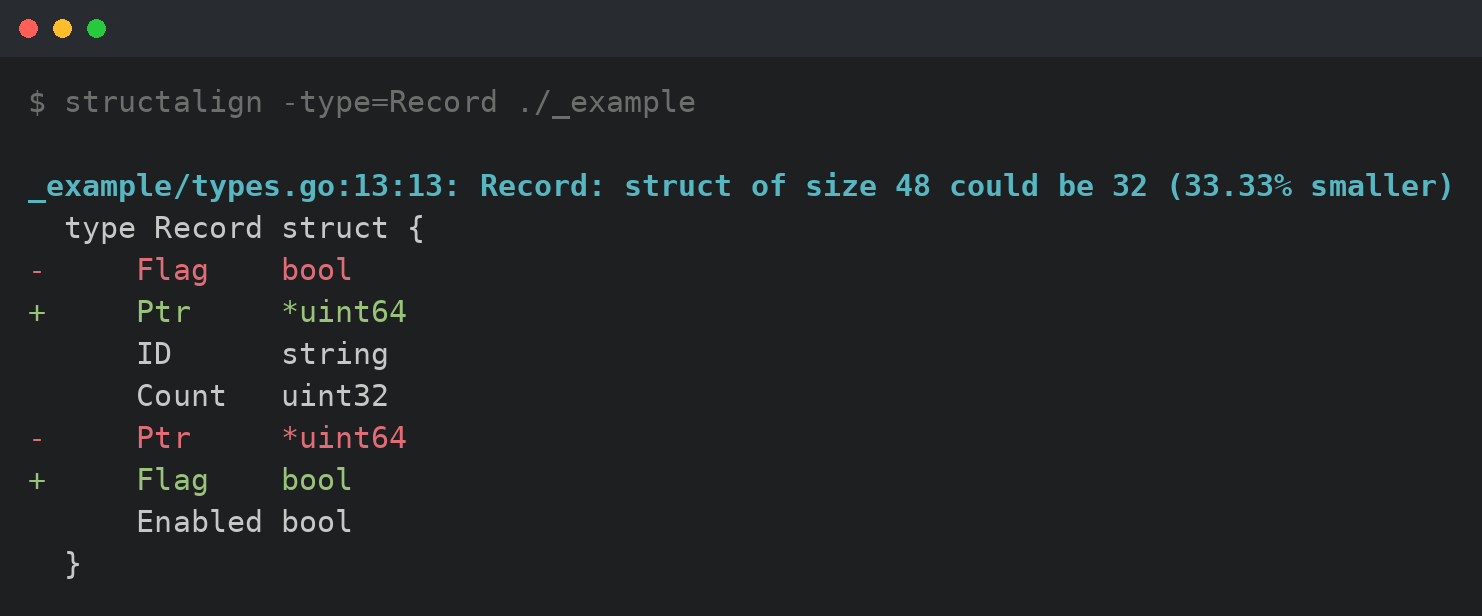
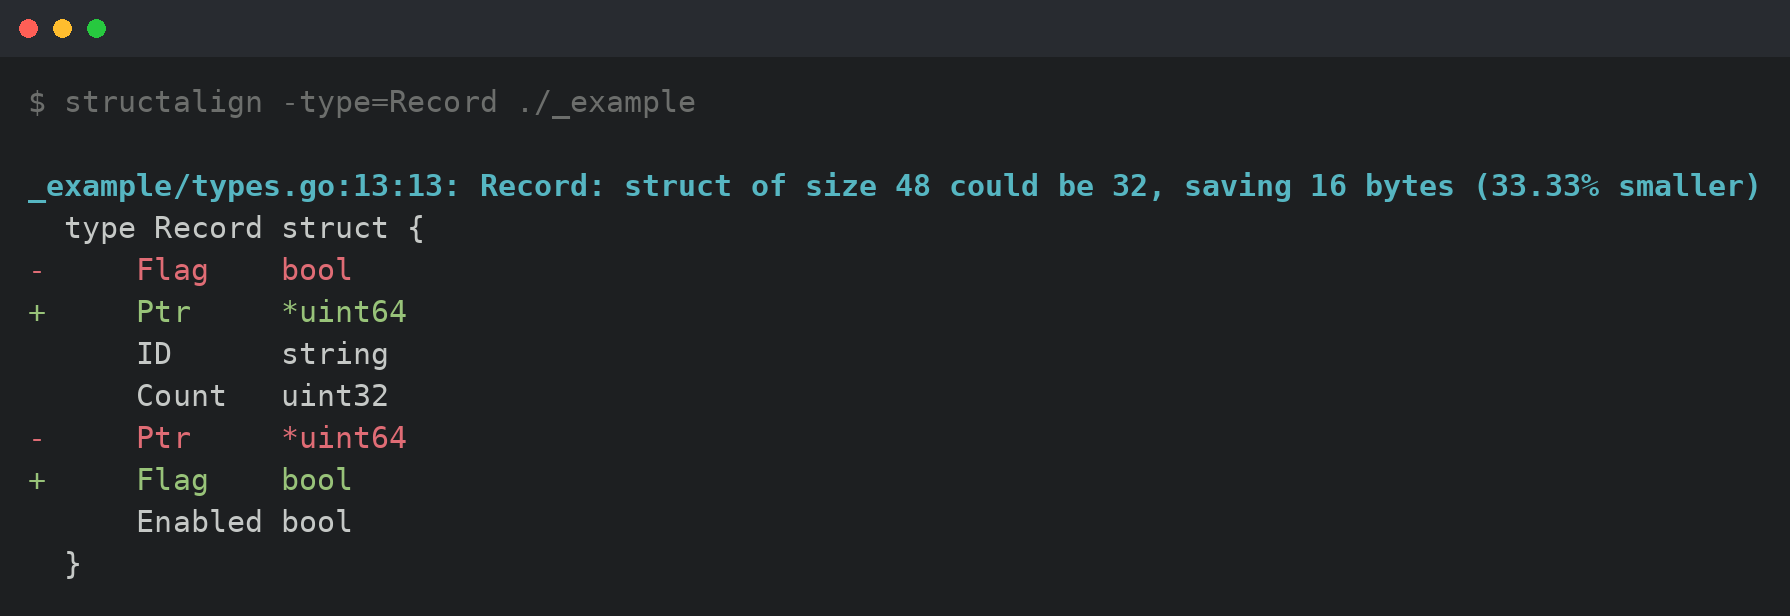
docs: refresh diff screenshot and drop redundant tag badge (#64)
* docs: regenerate diff screenshot for the v0.6.1 header

The diff header now reports absolute bytes saved ("saving 16 bytes"), so the
README screenshot was stale. Regenerated via `task screenshot` against
-type=Record; the default termenv palette renders identically.

* docs: drop redundant tag badge (duplicates Latest release)

The `tag` (github/tag) and `Latest release` (github/release) badges both render
the same version string, since every tag maps 1:1 to a GitHub release. Keep
`Latest release` (links to /releases/latest) and the distinct Release Date
badge; remove the duplicate tag badge.

* docs: move Latest release to the first badge

---------

diff --git a/README.md b/README.md
@@ -1,6 +1,6 @@
 # structalign
 
-[![tag](https://img.shields.io/github/tag/peczenyj/structalign.svg)](https://github.com/peczenyj/structalign/releases)
+[![Latest release](https://img.shields.io/github/release/peczenyj/structalign.svg)](https://github.com/peczenyj/structalign/releases/latest)
 ![Go Version](https://img.shields.io/badge/Go-%3E%3D%201.25-%23007d9c)
 [![GoDoc](https://pkg.go.dev/badge/github.com/peczenyj/structalign)](http://pkg.go.dev/github.com/peczenyj/structalign)
 [![CI](https://github.com/peczenyj/structalign/actions/workflows/ci.yml/badge.svg)](https://github.com/peczenyj/structalign/actions/workflows/ci.yml)
@@ -9,7 +9,6 @@
 [![CodeQL](https://github.com/peczenyj/structalign/actions/workflows/github-code-scanning/codeql/badge.svg)](https://github.com/peczenyj/structalign/actions/workflows/github-code-scanning/codeql)
 [![Dependency Review](https://github.com/peczenyj/structalign/actions/workflows/dependency-review.yml/badge.svg)](https://github.com/peczenyj/structalign/actions/workflows/dependency-review.yml)
 [![License](https://img.shields.io/github/license/peczenyj/structalign)](./LICENSE)
-[![Latest release](https://img.shields.io/github/release/peczenyj/structalign.svg)](https://github.com/peczenyj/structalign/releases/latest)
 [![GitHub Release Date](https://img.shields.io/github/release-date/peczenyj/structalign.svg)](https://github.com/peczenyj/structalign/releases/latest)
 [![Last commit](https://img.shields.io/github/last-commit/peczenyj/structalign.svg)](https://github.com/peczenyj/structalign/commit/HEAD)
 [![PRs Welcome](https://img.shields.io/badge/PRs-welcome-brightgreen.svg)](https://github.com/peczenyj/structalign/blob/main/CONTRIBUTING.md#pull-request-process)
